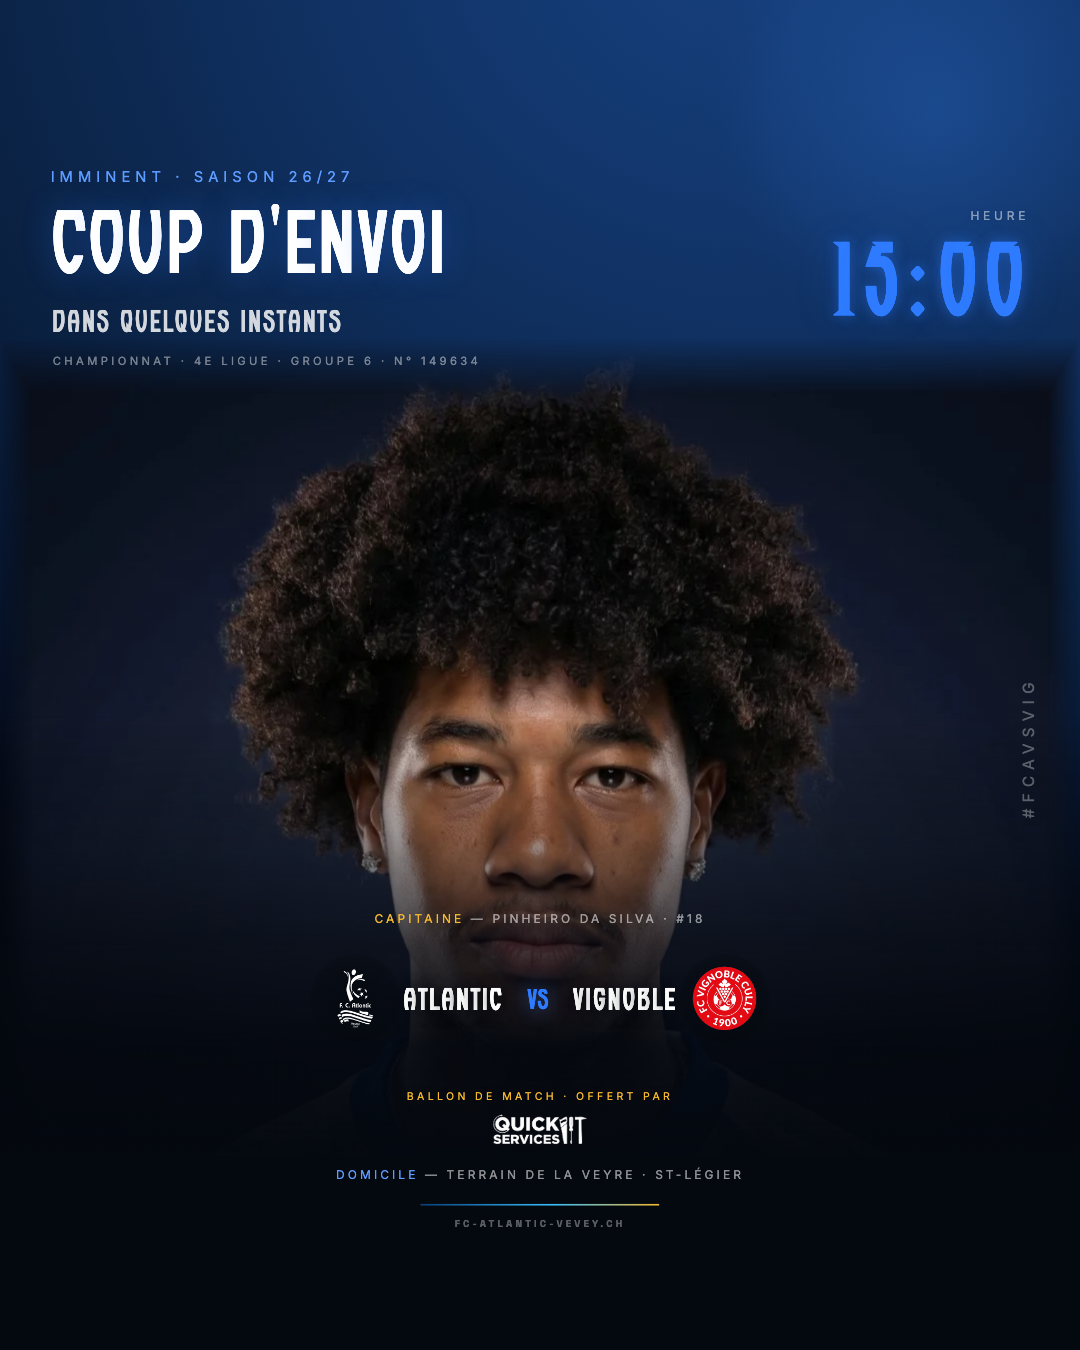
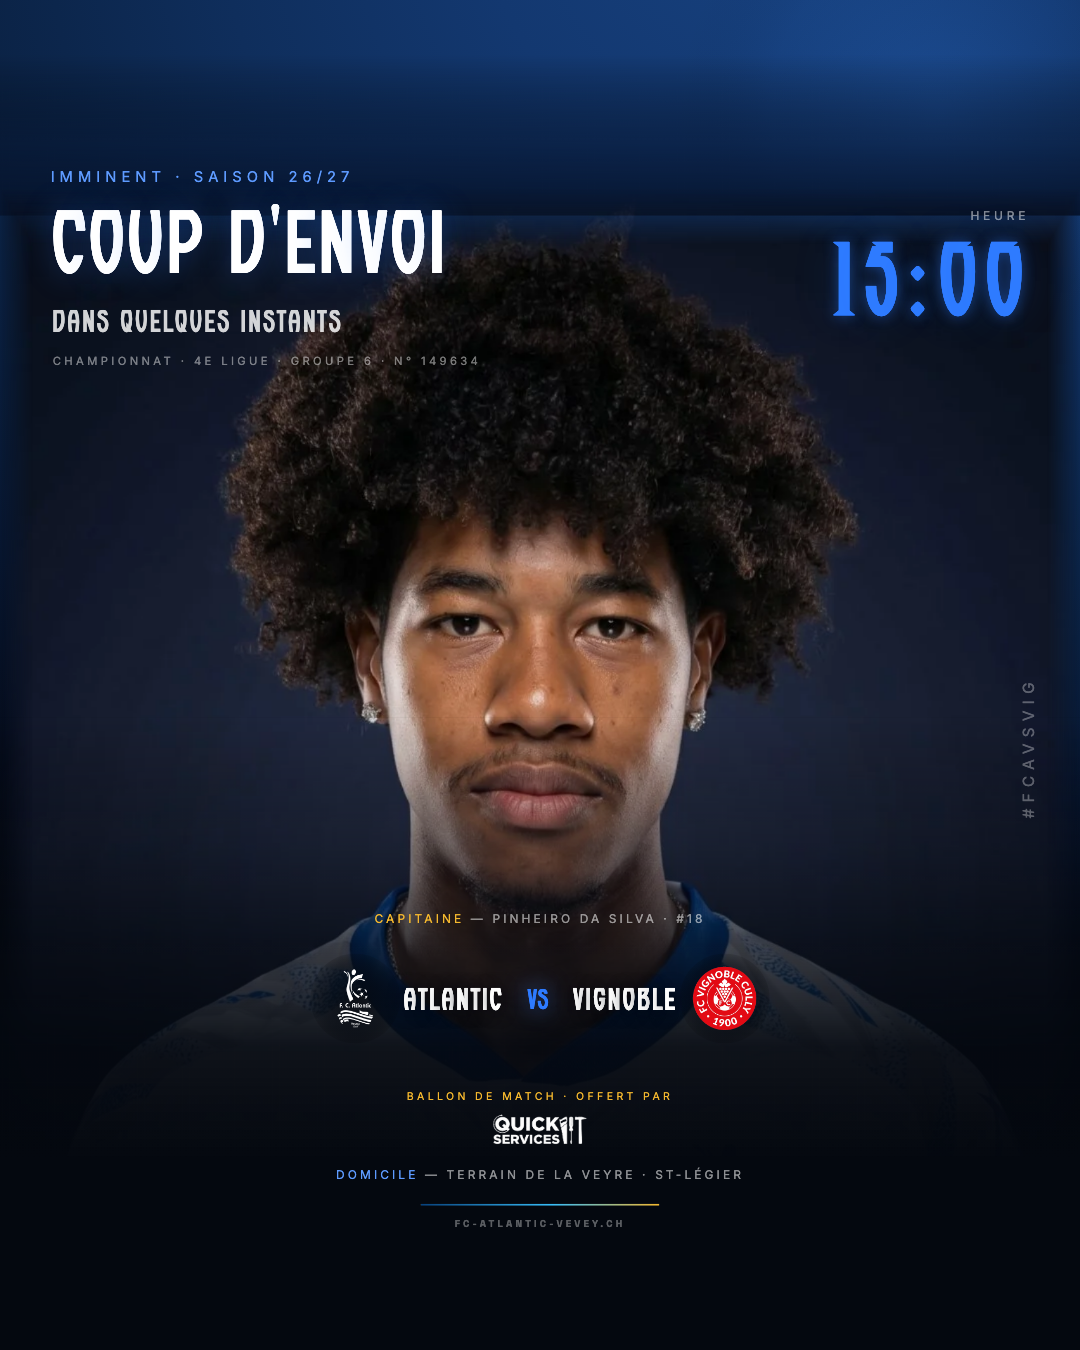
fix(design): jonction haute de la photo fondue + ancrage identique story/post
- Les photos de la banque portent un fond bleu nuit cuit dans l'image :
  leur bord haut dessinait une ligne nette sur le ciel. Bande d'ombre
  progressive juste au-dessus → transition mesurée lisse (52→43→33).
- Post 4:5 : la photo est ancrée pour que le VISAGE tombe au même endroit
  qu'en story (le canvas post est plus large, donc l'image plus grande).

diff --git a/index.html b/index.html
@@ -1364,9 +1364,19 @@
       <div style="position:absolute; top:-220px; right:-180px; width:760px; height:760px; background:radial-gradient(circle, rgba(56,140,255,0.2) 0%, rgba(56,140,255,0.06) 45%, transparent 70%);"></div>`;
     },
     photo(d) {
+      /* La photo occupe TOUTE la largeur du canvas (sinon sa propre boîte
+         sombre se voit en post). Comme le canvas post est plus large, l'image
+         grandit : on remonte son ancrage pour que le VISAGE tombe au même
+         endroit qu'en story — composition identique dans les deux formats. */
       const w = FB.vw;
-      return `<div style="position:absolute; top:430px; left:50%; margin-left:-420px; width:840px; height:840px; background:radial-gradient(circle, rgba(46,123,255,0.3) 0%, rgba(46,123,255,0.1) 42%, transparent 68%);"></div>
-      <div style="position:absolute; left:0; top:480px; width:${w}px; height:${Math.round(w * 4 / 3)}px; background-image:url('${d}'); background-size:contain; background-position:center top; background-repeat:no-repeat;"></div>`;
+      const top = Math.round(480 - (w / 1080 - 1) * 504);
+      /* Les photos de la banque ont un fond bleu nuit cuit dans l'image : sans
+         préparation, leur bord haut dessine une ligne nette sur le ciel. On
+         assombrit progressivement la bande juste au-dessus → la jonction
+         disparaît. */
+      return `<div style="position:absolute; left:0; right:0; top:${top - 190}px; height:230px; background:linear-gradient(180deg, transparent 0%, rgba(6,20,45,0.55) 55%, rgba(6,20,45,0.95) 100%);"></div>
+      <div style="position:absolute; top:430px; left:50%; margin-left:-420px; width:840px; height:840px; background:radial-gradient(circle, rgba(46,123,255,0.3) 0%, rgba(46,123,255,0.1) 42%, transparent 68%);"></div>
+      <div style="position:absolute; left:0; top:${top}px; width:${w}px; height:${Math.round(w * 4 / 3)}px; background-image:url('${d}'); background-size:contain; background-position:center top; background-repeat:no-repeat;"></div>`;
     },
     scrim(topY = 1020) {
       return `<div style="position:absolute; left:0; right:0; top:${topY}px; bottom:0; background:linear-gradient(180deg, transparent 0%, rgba(4,8,15,0.35) 20%, rgba(4,8,15,0.72) 36%, rgba(4,8,15,0.95) 52%, rgba(4,8,15,1) 70%);"></div>`;
